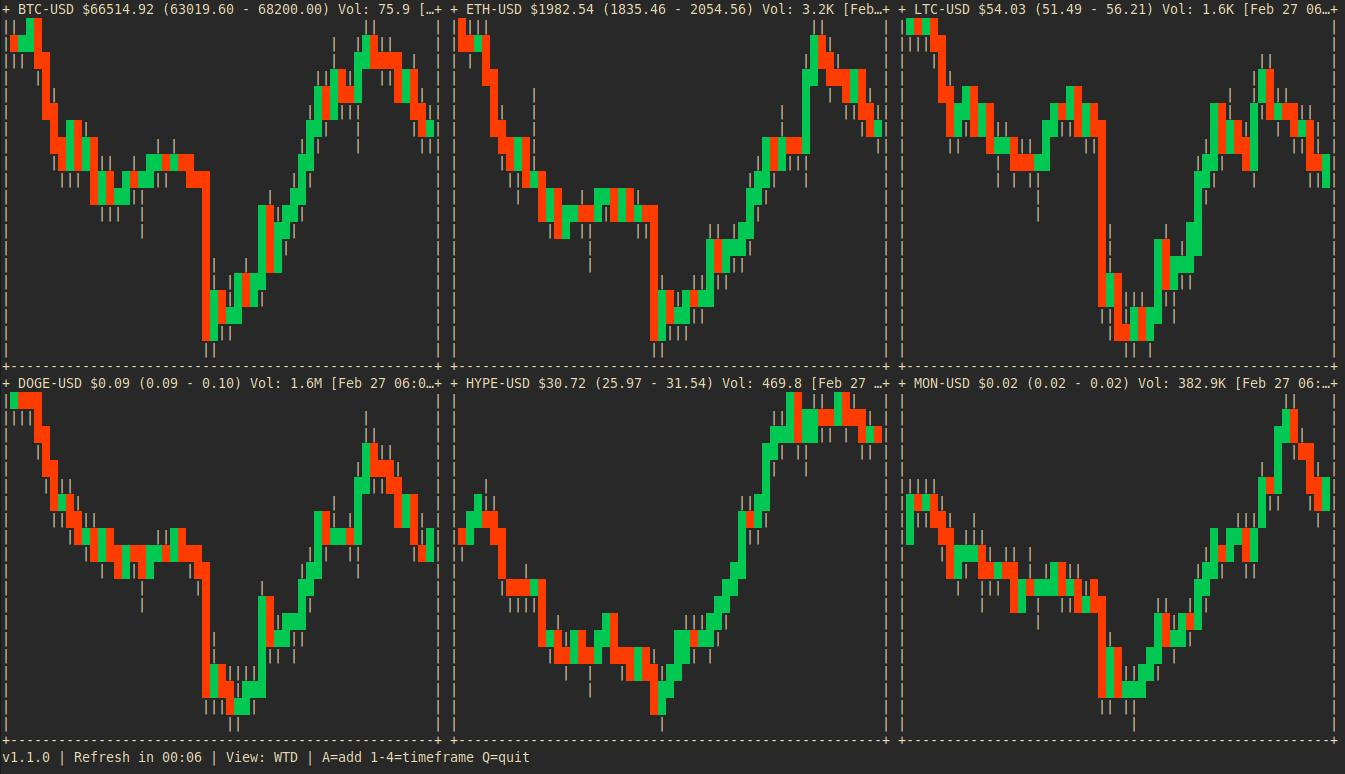
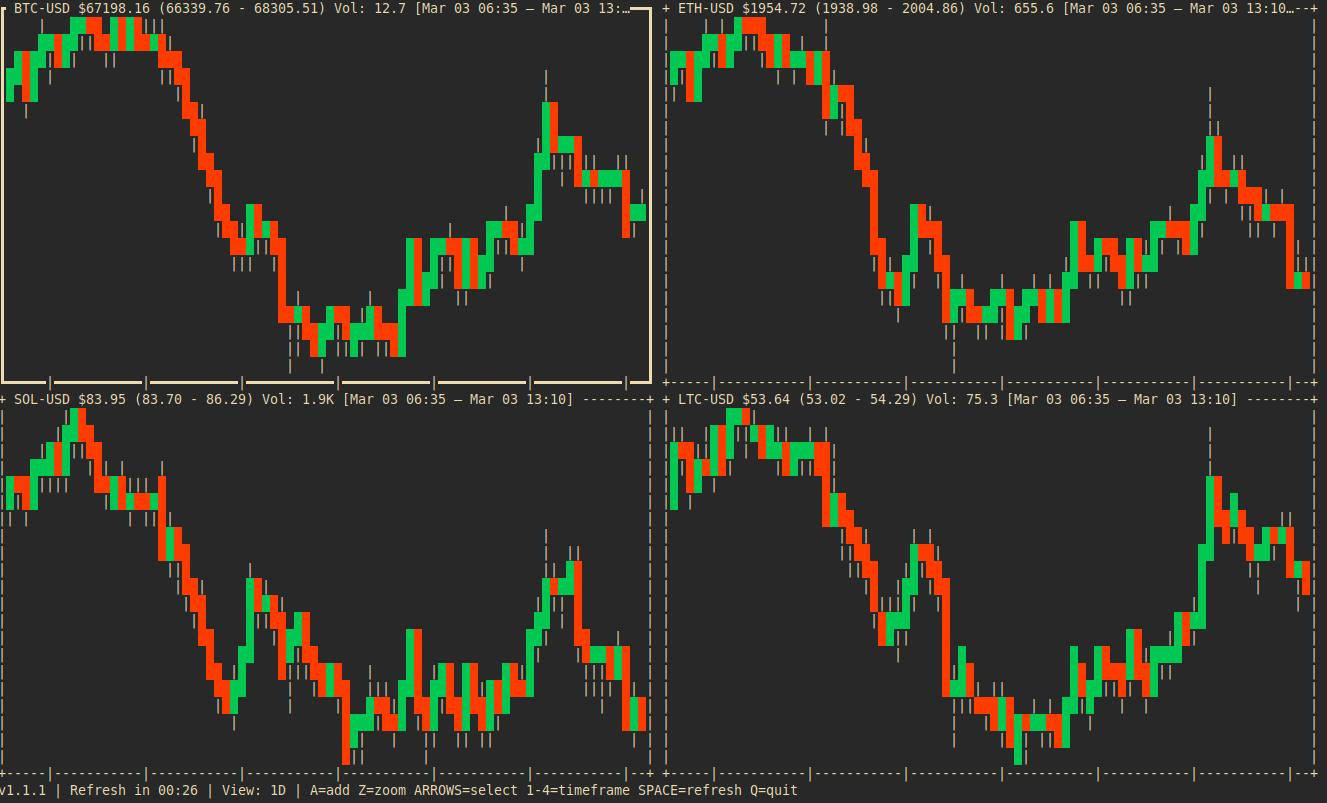
Updated readme and added screenshot for zoomed view

Changed region(s): [[0.0, 0.0, 1.0, 0.9922]]

diff --git a/README.md b/README.md
@@ -47,6 +47,7 @@ The binary will be created as `./crypto-graph-tui-<OS>-<ARCH>`. For example, bui
 ```
 
 ![Screenshot](Screenshot.jpg)
+![Screenshot Zoomed](Screenshot_zoomed.jpg)
 
 ### Command-line options
 
@@ -128,7 +129,6 @@ The app automatically saves your symbol selections and preferred timeframe.
 Set the environment variable `CMC_DEBUG=1` to enable verbose HTTP
 logging from the CoinGecko/Coinbase providers. Useful for troubleshooting
 network errors or examining request URLs.
-
 
 Charts are powered by:
 
